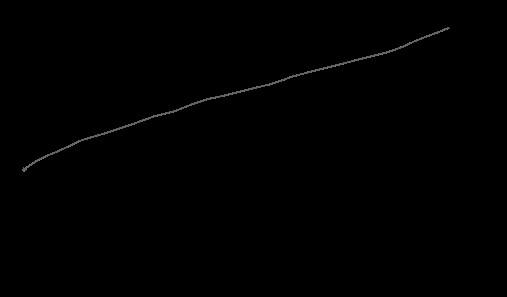
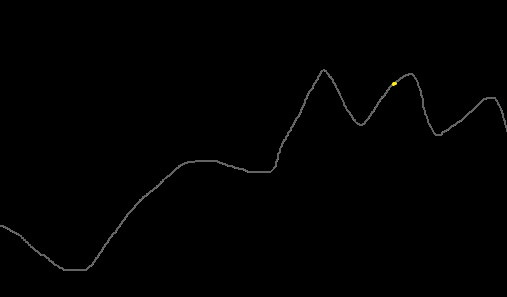
added feature to draw by K. +

diff --git a/Linar_Sharads/UserGraphShow/KoefGraphOutput.xaml b/Linar_Sharads/UserGraphShow/KoefGraphOutput.xaml
@@ -1,15 +1,14 @@
-<Window x:Class="UserGraphShow.MainWindow"
+<Window x:Class="UserGraphShow.KoefGraphOutput"
         xmlns="http://schemas.microsoft.com/winfx/2006/xaml/presentation"
         xmlns:x="http://schemas.microsoft.com/winfx/2006/xaml"
         xmlns:d="http://schemas.microsoft.com/expression/blend/2008"
         xmlns:mc="http://schemas.openxmlformats.org/markup-compatibility/2006"
-        xmlns:local="clr-namespace:UserGraphShow"
-         xmlns:DVC="clr-namespace:System.Windows.Controls.DataVisualization.Charting;assembly=System.Windows.Controls.DataVisualization.Toolkit"
+        xmlns:DVC="clr-namespace:System.Windows.Controls.DataVisualization.Charting;assembly=System.Windows.Controls.DataVisualization.Toolkit"
         xmlns:DV="clr-namespace:System.Windows.Controls.DataVisualization;assembly=System.Windows.Controls.DataVisualization.Toolkit"
        
+        xmlns:local="clr-namespace:UserGraphShow"
         mc:Ignorable="d"
-        ResizeMode="NoResize"
-        Title="MainWindow" Height="446" Width="726" >
+        Title="KoefGraphOutput" Height="446" Width="726" >
     <Grid Margin="0,0,-6,0">
         <Grid.ColumnDefinitions>
             <ColumnDefinition Width="583*"/>
@@ -19,24 +18,24 @@
 
 
 
-        <DVC:Chart Name="Chart" Background="#463F3F" Grid.ColumnSpan="3">
+        <DVC:Chart Name="Chart" Background="Yellow" Grid.ColumnSpan="3">
             <DVC:Chart.Series>
                 <DVC:LineSeries Title=" Your Graph" IndependentValueBinding="{Binding Path=Key}"  DependentValueBinding="{Binding Path=Value}" />
             </DVC:Chart.Series>
-            
-            
+
+
             <DVC:Chart.PlotAreaStyle>
                 <Style TargetType="Grid">
-                    <Setter Property="Background" Value="#463F3F" />
+                    <Setter Property="Background" Value="Yellow" />
                 </Style>
             </DVC:Chart.PlotAreaStyle>
-            
-            <DVC:Chart.Axes>
-                <DVC:LinearAxis Orientation="Y" Minimum="-302" Maximum="0"/>
-                <DVC:LinearAxis Orientation="X" Maximum="509" Minimum="0"/>
+
+            <!--<DVC:Chart.Axes>
+                <DVC:LinearAxis Orientation="Y" Minimum="-0,01" Maximum="0,003"/>
+                <DVC:LinearAxis Orientation="X" Maximum="260" Minimum="-5"/>
                 <DVC:LinearAxis Visibility="Hidden"/>
-            </DVC:Chart.Axes>
-            
+            </DVC:Chart.Axes>-->
+
         </DVC:Chart>
         <Button x:Name="button" Content="Show" HorizontalAlignment="Left" Margin="8,10,0,0" VerticalAlignment="Top" Width="75" Grid.Column="1" Height="22" Click="button_Click"/>
     </Grid>

diff --git a/Linar_Sharads/UserGraphShow/GraphOutput.xaml b/Linar_Sharads/UserGraphShow/GraphOutput.xaml
@@ -1,0 +1,43 @@
+<Window x:Class="UserGraphShow.GraphOutput"
+        xmlns="http://schemas.microsoft.com/winfx/2006/xaml/presentation"
+        xmlns:x="http://schemas.microsoft.com/winfx/2006/xaml"
+        xmlns:d="http://schemas.microsoft.com/expression/blend/2008"
+        xmlns:mc="http://schemas.openxmlformats.org/markup-compatibility/2006"
+        xmlns:local="clr-namespace:UserGraphShow"
+         xmlns:DVC="clr-namespace:System.Windows.Controls.DataVisualization.Charting;assembly=System.Windows.Controls.DataVisualization.Toolkit"
+        xmlns:DV="clr-namespace:System.Windows.Controls.DataVisualization;assembly=System.Windows.Controls.DataVisualization.Toolkit"
+       
+        mc:Ignorable="d"
+        ResizeMode="NoResize"
+        Title="MainWindow" Height="446" Width="726" >
+    <Grid Margin="0,0,-6,0">
+        <Grid.ColumnDefinitions>
+            <ColumnDefinition Width="583*"/>
+            <ColumnDefinition Width="92*"/>
+            <ColumnDefinition Width="51*"/>
+        </Grid.ColumnDefinitions>
+
+
+
+        <DVC:Chart Name="Chart" Background="#463F3F" Grid.ColumnSpan="3">
+            <DVC:Chart.Series>
+                <DVC:LineSeries Title=" Your Graph" IndependentValueBinding="{Binding Path=Key}"  DependentValueBinding="{Binding Path=Value}" />
+            </DVC:Chart.Series>
+            
+            
+            <DVC:Chart.PlotAreaStyle>
+                <Style TargetType="Grid">
+                    <Setter Property="Background" Value="#463F3F" />
+                </Style>
+            </DVC:Chart.PlotAreaStyle>
+            
+            <DVC:Chart.Axes>
+                <DVC:LinearAxis Orientation="Y" Minimum="-302" Maximum="0"/>
+                <DVC:LinearAxis Orientation="X" Maximum="509" Minimum="0"/>
+                <DVC:LinearAxis Visibility="Hidden"/>
+            </DVC:Chart.Axes>
+            
+        </DVC:Chart>
+        <Button x:Name="button" Content="Show" HorizontalAlignment="Left" Margin="8,10,0,0" VerticalAlignment="Top" Width="75" Grid.Column="1" Height="22" Click="button_Click"/>
+    </Grid>
+</Window>

diff --git a/Linar_Sharads/UserGraphShow/App.xaml b/Linar_Sharads/UserGraphShow/App.xaml
@@ -2,7 +2,7 @@
              xmlns="http://schemas.microsoft.com/winfx/2006/xaml/presentation"
              xmlns:x="http://schemas.microsoft.com/winfx/2006/xaml"
              xmlns:local="clr-namespace:UserGraphShow"
-             StartupUri="Painting.xaml">
+             StartupUri="KoefGraphOutput.xaml">
     <Application.Resources>
          
     </Application.Resources>

diff --git a/Linar_Sharads/UserGraphShow/KoefGraphOutput.xaml.cs b/Linar_Sharads/UserGraphShow/KoefGraphOutput.xaml.cs
@@ -1,0 +1,61 @@
+using System;
+using System.Collections.Generic;
+using System.Linq;
+using System.Text;
+using System.Threading.Tasks;
+using System.Windows;
+using System.Windows.Controls;
+using System.Windows.Data;
+using System.Windows.Documents;
+using System.Windows.Input;
+using System.Windows.Media;
+using System.Windows.Media.Imaging;
+using System.Windows.Shapes;
+using Main_Logic;
+using System.Windows.Controls.DataVisualization.Charting;
+namespace UserGraphShow
+{
+    /// <summary>
+    /// Interaction logic for KoefGraphOutput.xaml
+    /// </summary>
+    public partial class KoefGraphOutput : Window
+    {
+        public KoefGraphOutput()
+        {
+            InitializeComponent();
+        }
+
+        private void button_Click(object sender, RoutedEventArgs e)
+        {
+
+            try
+            {
+                var kek = new DrawByKoef();
+                var b = kek.XYKOEF();
+                var x = b[0];
+                var y = b[1];
+                var ls = new LineSeries
+                {
+                    IndependentValueBinding = new Binding("Key"),
+                    DependentValueBinding = new Binding("Value")
+                };
+                var a = new KeyValuePair<double, double>[GetUserGraphUnfoInfo.Pointamount];
+                for (var i = 0; i < GetUserGraphUnfoInfo.Pointamount; i++)
+                    a[i] = new KeyValuePair<double, double>(x[i], y[i]);
+
+                ls.ItemsSource = a;
+                Chart.Series.Clear();
+                Chart.Series.Add(ls);
+
+
+            }
+            catch (Exception ex)
+            {
+                MessageBox.Show(ex.Message, ":(", MessageBoxButton.OKCancel, MessageBoxImage.Error);
+                this.Close();
+
+            }
+
+        }
+    }
+}

diff --git a/Linar_Sharads/Main_Logic/GetUserGraphUnfoInfo.cs b/Linar_Sharads/Main_Logic/GetUserGraphUnfoInfo.cs
@@ -6,6 +6,20 @@ namespace Main_Logic
 {
     public class GetUserGraphUnfoInfo
     {
+        //lets say the step is 1/25 length    
+        public static int Pointamount => 25;
+        public  int X0 => FindXY(_path)[0][0];
+        public  double[] KfcArray => KoefArray(_path);
+        public  int StepX=> (FindXY(_path)[0][0] + FindXY(_path)[0][FindXY(_path)[0].Length - 1]) / (Pointamount - 1);
+        //private  string _path => "../../../Main_Logic/image.jpeg";
+
+
+        private string _path;
+        public GetUserGraphUnfoInfo()
+        {
+            this._path = "../../../Main_Logic/image.jpeg";
+        }
+
         public static int[][] ImageConvert(string path) //Convert bitmap to double array with 1 and 0
         {
             var bitmap = new Bitmap(path);
@@ -23,14 +37,13 @@ namespace Main_Logic
                         imgArray[i][j] = 1;
                 }
             return imgArray;
-        }
+        }      
 
-        //lets say the step is 1/40 length     
-
-        public static int Pointamount => 25;
+           
 
         public static List<int[]> FindXY(string path) //arrays of Xi & Yi
         {
+            
             var imgArray = ImageConvert(path);
             var xn = 0; //last x
             var xar = imgArray.Length;

diff --git a/Linar_Sharads/Main_Logic/DrawByKoef.cs b/Linar_Sharads/Main_Logic/DrawByKoef.cs
@@ -1,0 +1,48 @@
+using System;
+using System.Collections.Generic;
+using System.Linq;
+using System.Text;
+using System.Threading.Tasks;
+
+namespace Main_Logic
+{
+   public class DrawByKoef
+    {
+        //Repository repository = new Repository();        
+        // var sfs = repository.GetKoefs(repository.MakeQuery(repository.GetApiString()));
+
+
+        
+        List<double> _k;
+        public DrawByKoef()
+        {
+           
+            Repository repository = new Repository();
+            _k = repository.GetKoefs(repository.MakeQuery(repository.GetApiString()));           
+        }
+
+
+        public  List<double[]> XYKOEF()
+        {
+            var points = GetUserGraphUnfoInfo.Pointamount;
+            var X = new double[points];
+            var Y = new double[points];
+            X[0] = 0;
+            var dx = 10;
+            for (int i = 0; i < X.Length; i++)
+            {
+                X[i] =-( X[0] + i * dx);
+            }
+            Y[0] = 0;
+            for (int i = 1; i < Y.Length; i++)
+            {
+                Y[i] = Y[i - 1] + (_k[i - 1] /** 10000*/) * dx;
+            }
+           return new List<double[]> { X, Y };
+        }
+
+
+
+
+    }
+}

diff --git a/Linar_Sharads/UserGraphShow/Painting.xaml.cs b/Linar_Sharads/UserGraphShow/Painting.xaml.cs
@@ -55,21 +55,20 @@ namespace UserGraphShow
             catch (Exception ex)
             {
                 MessageBox.Show(ex.Message, ":(", MessageBoxButton.OKCancel, MessageBoxImage.Error);
+                
             }
-            var kek = new UserGraphShow.MainWindow();
+            var kek = new UserGraphShow.GraphOutput();
             kek.ShowDialog();
         }
 
         public void SaveTo(string f)
         {
             var b = VisualTreeHelper.GetDescendantBounds(paintSurface);
-            var r = new RenderTargetBitmap((int)b.Width, (int)b.Height, 96, 96,
-                PixelFormats.Default);
+            var r = new RenderTargetBitmap((int)b.Width, (int)b.Height, 96, 96, PixelFormats.Default);
             r.Render(paintSurface);
             var e = new JpegBitmapEncoder();
             e.Frames.Add(BitmapFrame.Create(r));
-            var s = new FileStream(f,
-                FileMode.OpenOrCreate, FileAccess.Write);
+            var s = new FileStream(f, FileMode.OpenOrCreate, FileAccess.Write);
             e.Save(s);
             s.Close();
         }

diff --git a/Linar_Sharads/Main_Logic/Repository.cs b/Linar_Sharads/Main_Logic/Repository.cs
@@ -9,9 +9,9 @@ using Newtonsoft.Json;
 
 namespace Main_Logic
 {
-    internal class Repository
+    public class Repository
     {
-        public Request MakeQuery(string apiRequest)
+      public   Request MakeQuery(string apiRequest)
         {
             using (var client = new HttpClient())
             {
@@ -38,12 +38,12 @@ namespace Main_Logic
             foreach (var varpair in query.dataset.data)
             {
                 listOfValues.Add(new List<double> { t, (double)varpair[1] });
-                t++;
+                t+=0.0054;
             }
 
             var splittedList = new List<List<List<double>>>();
 
-            Split(listOfValues, (int)listOfValues.Count / 25, ref splittedList);
+            Split(listOfValues, (int)listOfValues.Count / (GetUserGraphUnfoInfo.Pointamount-1), ref splittedList);
 
             var listOfKoef = new List<double>();
 

diff --git a/Linar_Sharads/Main_Logic/Program.cs b/Linar_Sharads/Main_Logic/Program.cs
@@ -1,18 +1,22 @@
-namespace Main_Logic
+
+
+namespace Main_Logic
 {
     internal class Program
     {
         private static void Main()
         {
             //Test
-            using (var context = new Context())
-            {
-                context.Database.Delete();
-                context.Database.CreateIfNotExists();
+            //using (var context = new Context())
+            //{
+            //    context.Database.Delete();
+            //    context.Database.CreateIfNotExists();
 
-                context.SaveChanges();
-            }
-            var repo = new Repository();
+            //    context.SaveChanges();
+            //}
+            var kek = GetUserGraphUnfoInfo.KoefArray("../../../Main_Logic/image.jpeg");
+            System.Console.ReadLine();
+
             //repo.GetKoefs();
         }
     }

diff --git a/Linar_Sharads/UserGraphShow/GraphOutput.xaml.cs b/Linar_Sharads/UserGraphShow/GraphOutput.xaml.cs
@@ -10,9 +10,9 @@ namespace UserGraphShow
     /// <summary>
     /// Interaction logic for MainWindow.xaml
     /// </summary>
-    public partial class MainWindow
+    public partial class GraphOutput
     {
-        public MainWindow()
+        public GraphOutput()
         {
             InitializeComponent();
         }
@@ -38,13 +38,13 @@ namespace UserGraphShow
                 Chart.Series.Clear();
                 Chart.Series.Add(ls);
 
-                //var c = GetUserGraphUnfoInfo.KoefArray("../../../Main_Logic/image.jpeg");
-                //int fgfg = 3;
+             
             }
             catch (Exception ex)
             {
                 MessageBox.Show(ex.Message, ":(", MessageBoxButton.OKCancel, MessageBoxImage.Error);
-                
+                this.Close();
+
             }
         }
 

diff --git a/Linar_Sharads/Main_Logic/DTO/Dataset.cs b/Linar_Sharads/Main_Logic/DTO/Dataset.cs
@@ -7,7 +7,7 @@ using Newtonsoft.Json;
 
 namespace Main_Logic.Api
 {
-    class Dataset
+    public class Dataset
     {
         //public int id { get; set; }
         //public string dataset_code { get; set; }

diff --git a/Linar_Sharads/Main_Logic/DTO/Request.cs b/Linar_Sharads/Main_Logic/DTO/Request.cs
@@ -7,7 +7,7 @@ using Newtonsoft.Json;
 
 namespace Main_Logic.Api
 {
-    class Request
+   public class Request
     {
         [JsonProperty("dataset")]
         public Dataset dataset { get; set; }
